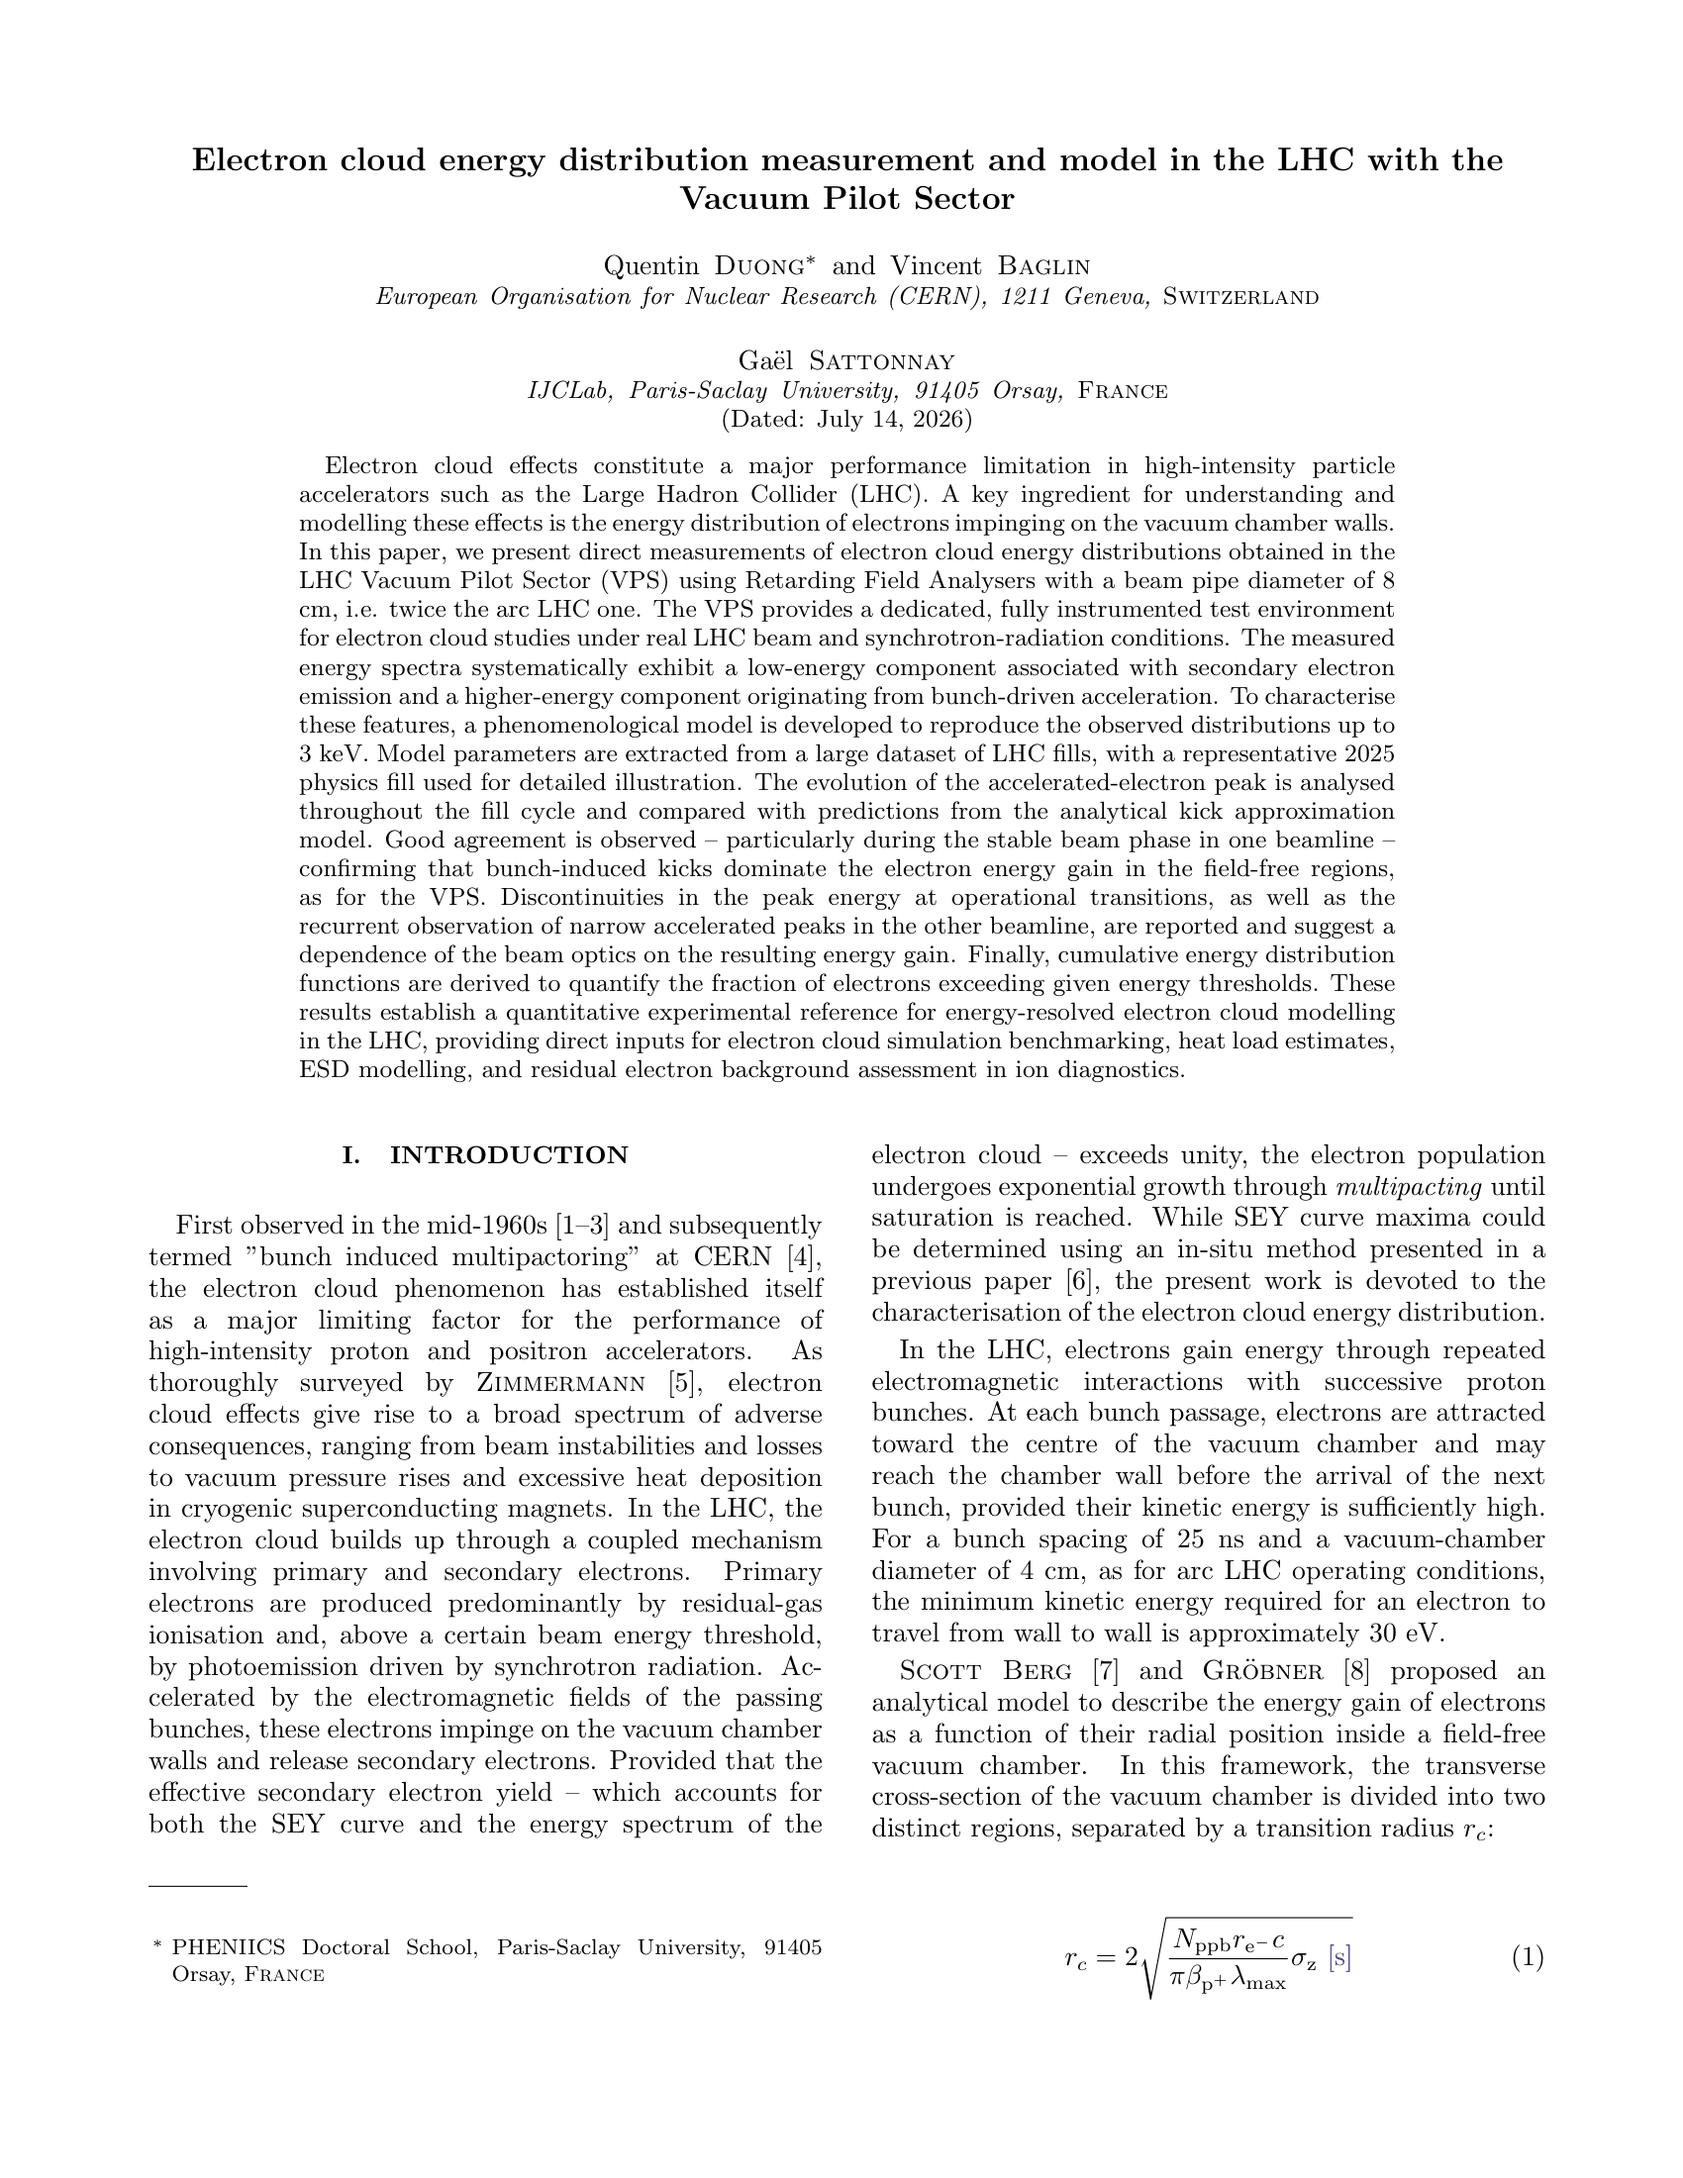
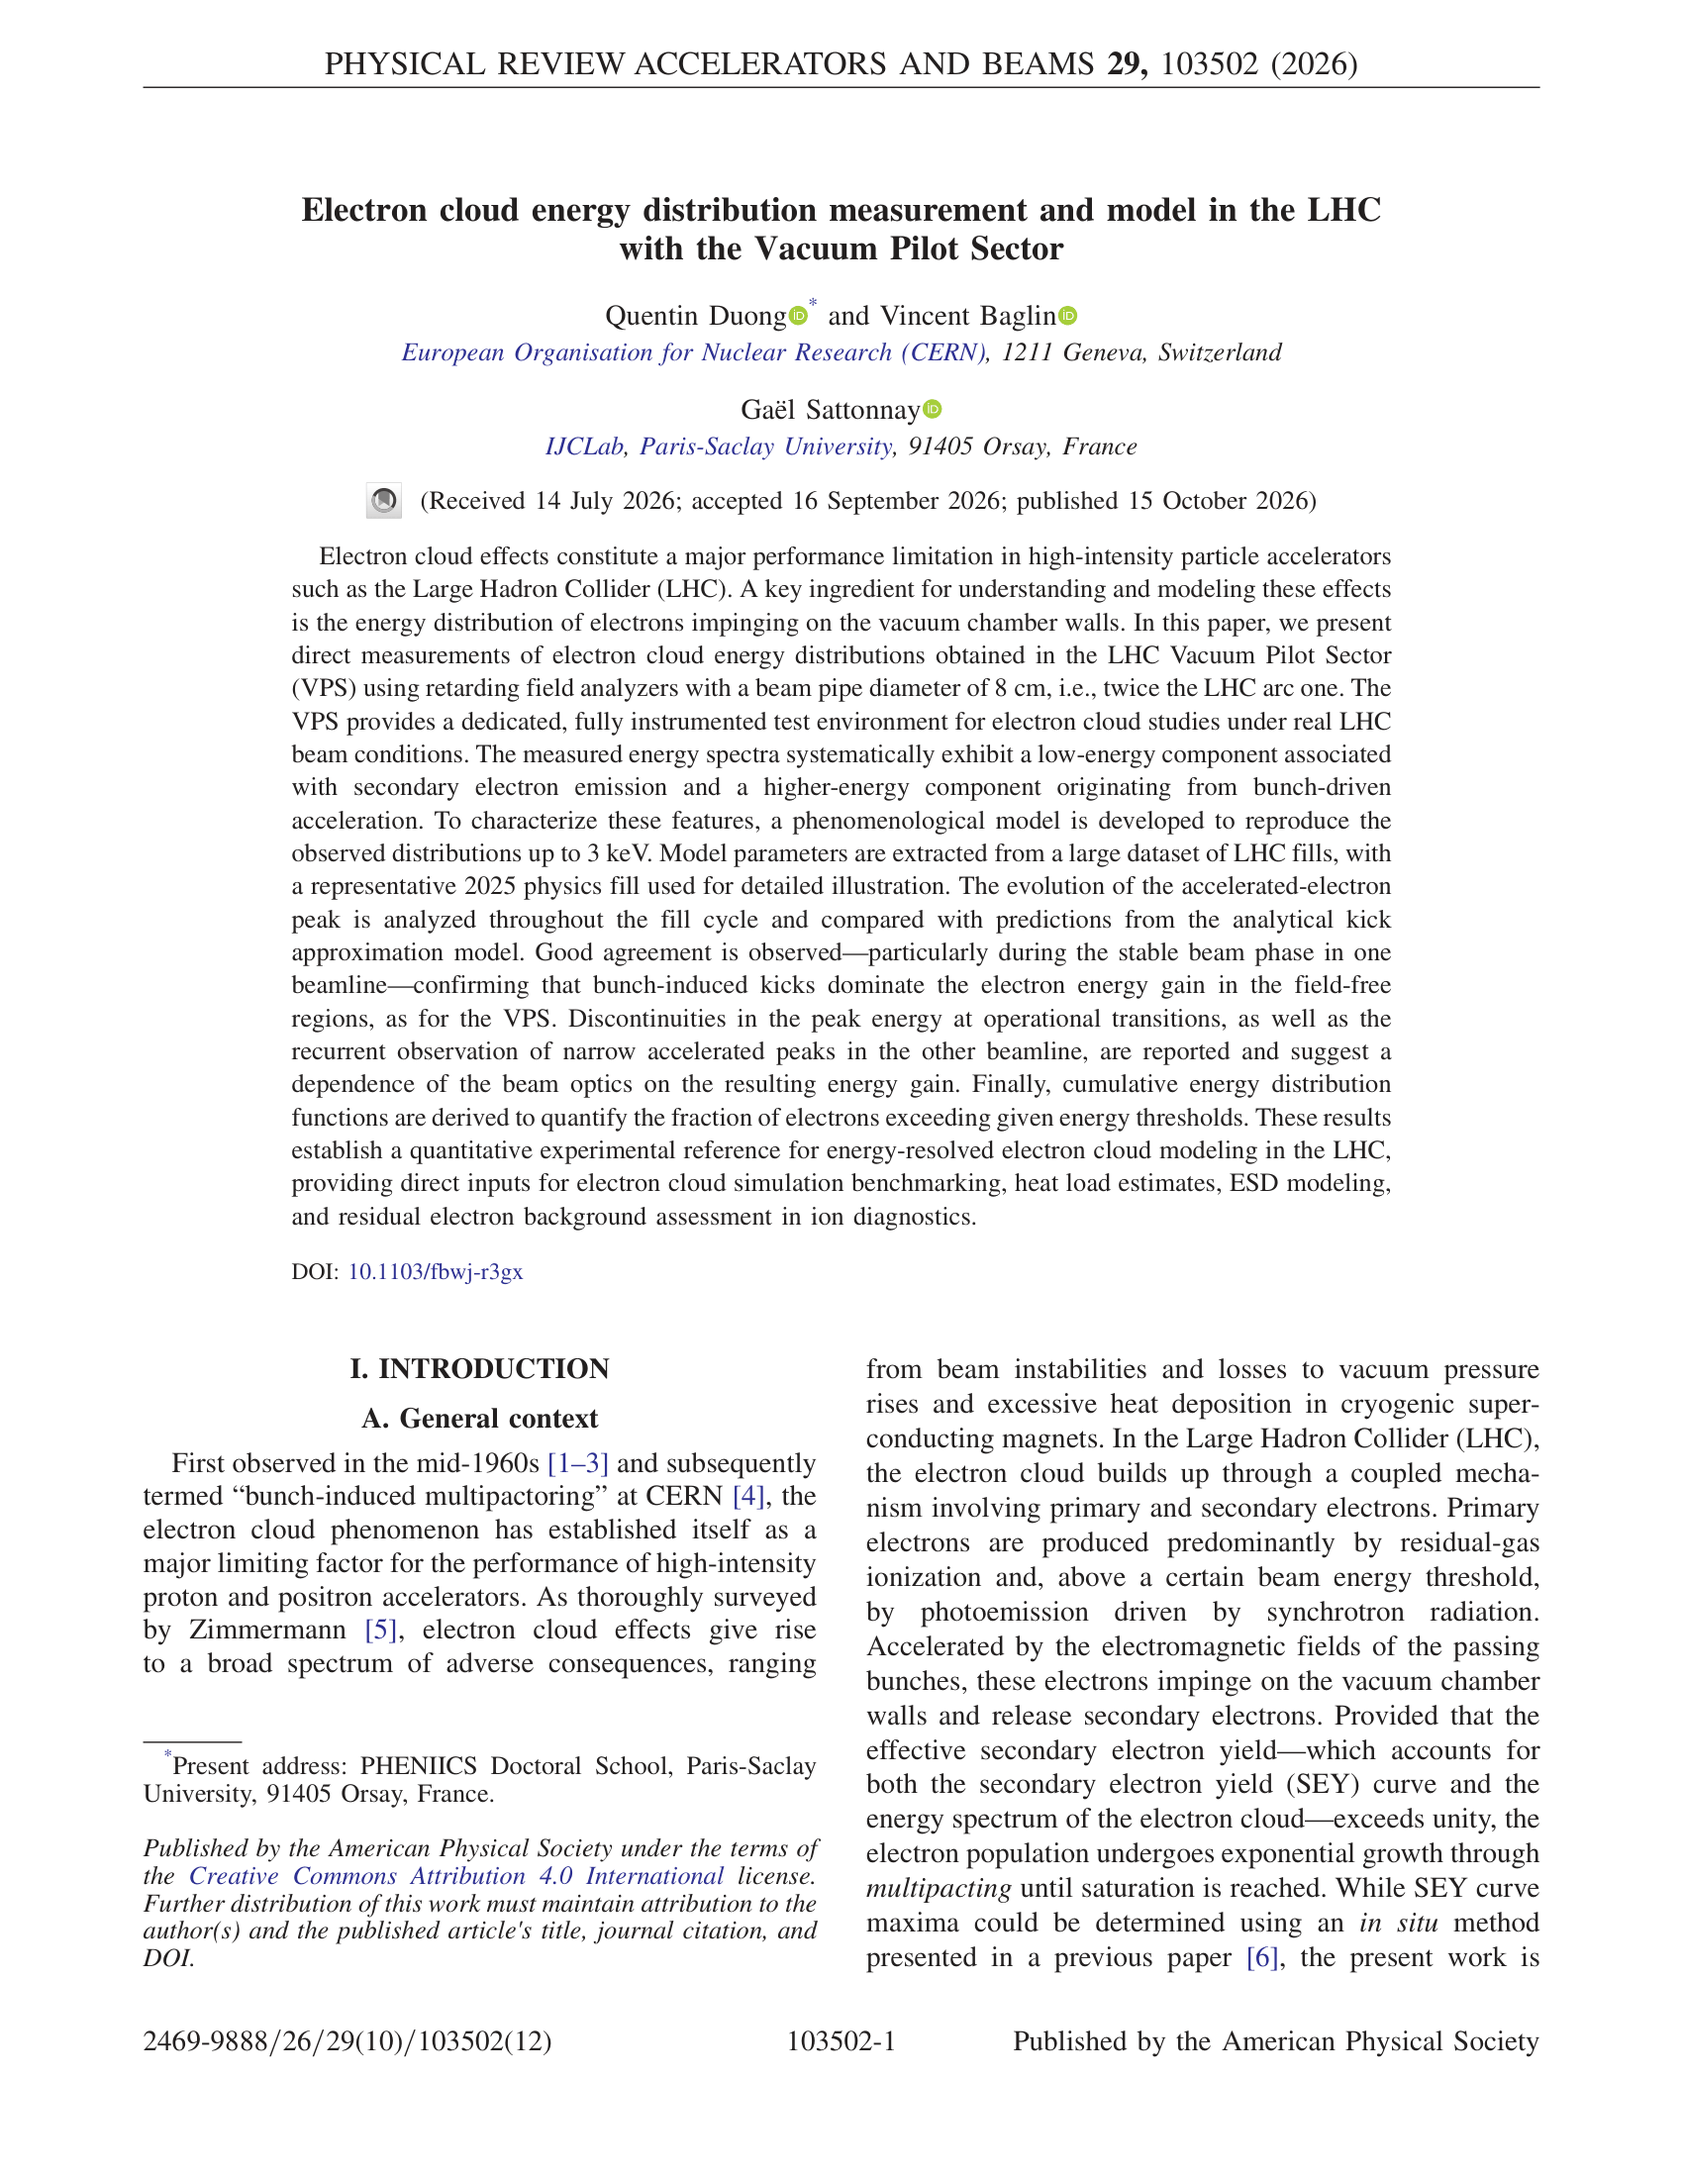
second article published

diff --git a/projects.html b/projects.html
@@ -175,7 +175,7 @@
           <ul class="pub-previews" aria-label="Publication previews, most recent first">
 
             <li>
-              <article class="pub-preview is-accepted">
+              <article class="pub-preview">
                 <a href="https://journals.aps.org/prab/accepted/10.1103/fbwj-r3gx" target="_blank" rel="noopener" class="pub-preview__link">
                   <div class="pub-preview__cover">
                     <img src="assets/publications/Energy.png" alt="" loading="lazy"
